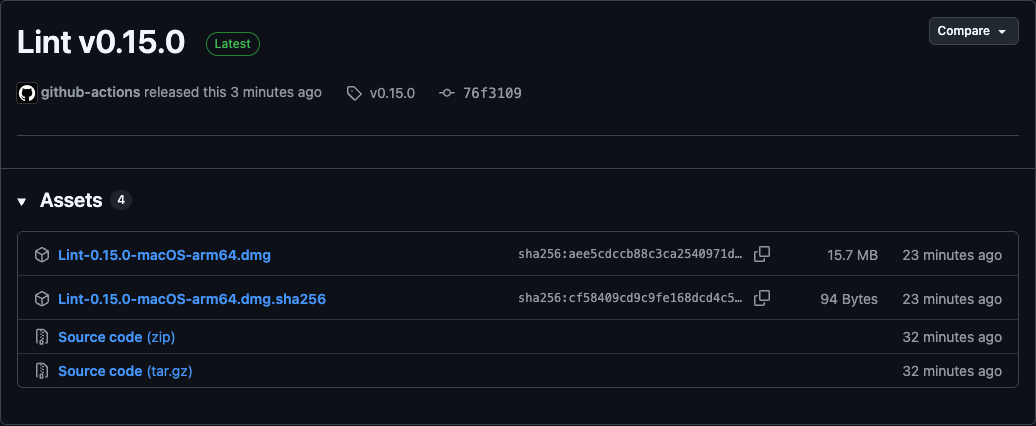
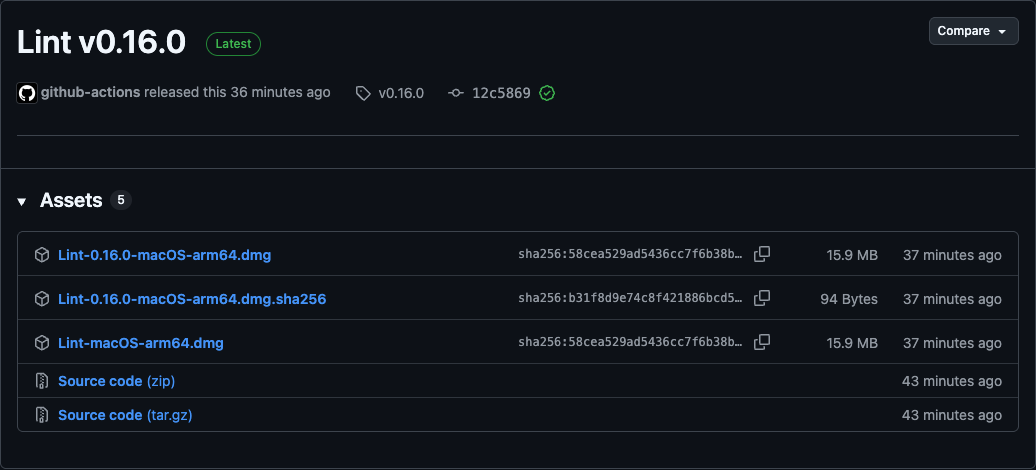
Point the guide's download step at 0.16.0.

diff --git a/docs/guide.html b/docs/guide.html
@@ -133,7 +133,7 @@
         <span class="zh">從下載到第一個建議，一步一步來。每一步都會告訴你，繼續之前應該看到什麼。</span>
       </p>
       <ul class="chips">
-        <li>Lint 0.15.0</li>
+        <li>Lint 0.16.0</li>
         <li>macOS 14+</li>
         <li>Apple Silicon</li>
       </ul>
@@ -217,16 +217,16 @@
 
       <article class="step">
         <div class="step-head"><span class="step-num">1</span><h3><span class="en">Download the DMG</span><span class="zh">下載 DMG</span></h3></div>
-        <p class="en">Open <a href="https://github.com/davislinyd/Lint/releases/latest" target="_blank" rel="noopener noreferrer">the latest release on GitHub</a> and click <code>Lint-0.15.0-macOS-arm64.dmg</code> under <strong>Assets</strong>. A newer release has a newer number in the name.</p>
-        <p class="zh">打開 <a href="https://github.com/davislinyd/Lint/releases/latest" target="_blank" rel="noopener noreferrer">GitHub 上的最新版本</a>，在 <strong>Assets</strong> 下點 <code>Lint-0.15.0-macOS-arm64.dmg</code>。之後的版本檔名裡的版本號會不同。</p>
+        <p class="en">Open <a href="https://github.com/davislinyd/Lint/releases/latest" target="_blank" rel="noopener noreferrer">the latest release on GitHub</a> and click <code>Lint-0.16.0-macOS-arm64.dmg</code> under <strong>Assets</strong>. A newer release has a newer number in the name.</p>
+        <p class="zh">打開 <a href="https://github.com/davislinyd/Lint/releases/latest" target="_blank" rel="noopener noreferrer">GitHub 上的最新版本</a>，在 <strong>Assets</strong> 下點 <code>Lint-0.16.0-macOS-arm64.dmg</code>。之後的版本檔名裡的版本號會不同。</p>
         <p class="check en">The DMG is in your Downloads folder.</p>
         <p class="check zh">「下載項目」資料夾裡有這個 DMG。</p>
         <figure>
-          <a class="shot flat" href="assets/guide/shared/github-release.png" target="_blank" rel="noopener"><img src="assets/guide/shared/github-release.png" alt="The Lint v0.15.0 release on GitHub with the DMG under Assets" width="1036" height="426" loading="lazy"></a>
+          <a class="shot flat" href="assets/guide/shared/github-release.png" target="_blank" rel="noopener"><img src="assets/guide/shared/github-release.png" alt="The Lint v0.16.0 release on GitHub with the DMG under Assets" width="1036" height="470" loading="lazy"></a>
           <figcaption><span class="en">Click the <code>.dmg</code> file under Assets.</span><span class="zh">在 Assets 下點 <code>.dmg</code> 檔。</span></figcaption>
         </figure>
-        <div class="note en"><p><strong>Optional:</strong> to check the download, also get <code>Lint-0.15.0-macOS-arm64.dmg.sha256</code>, then run <code>shasum -a 256 -c Lint-0.15.0-macOS-arm64.dmg.sha256</code> in Terminal, in the folder that holds both files. It prints <code>OK</code>.</p></div>
-        <div class="note zh"><p><strong>選用：</strong>想確認下載無誤，可以一併下載 <code>Lint-0.15.0-macOS-arm64.dmg.sha256</code>，在放著這兩個檔案的資料夾打開「終端機」，執行 <code>shasum -a 256 -c Lint-0.15.0-macOS-arm64.dmg.sha256</code>，會印出 <code>OK</code>。</p></div>
+        <div class="note en"><p><strong>Optional:</strong> to check the download, also get <code>Lint-0.16.0-macOS-arm64.dmg.sha256</code>, then run <code>shasum -a 256 -c Lint-0.16.0-macOS-arm64.dmg.sha256</code> in Terminal, in the folder that holds both files. It prints <code>OK</code>.</p></div>
+        <div class="note zh"><p><strong>選用：</strong>想確認下載無誤，可以一併下載 <code>Lint-0.16.0-macOS-arm64.dmg.sha256</code>，在放著這兩個檔案的資料夾打開「終端機」，執行 <code>shasum -a 256 -c Lint-0.16.0-macOS-arm64.dmg.sha256</code>，會印出 <code>OK</code>。</p></div>
       </article>
     </section>
 
